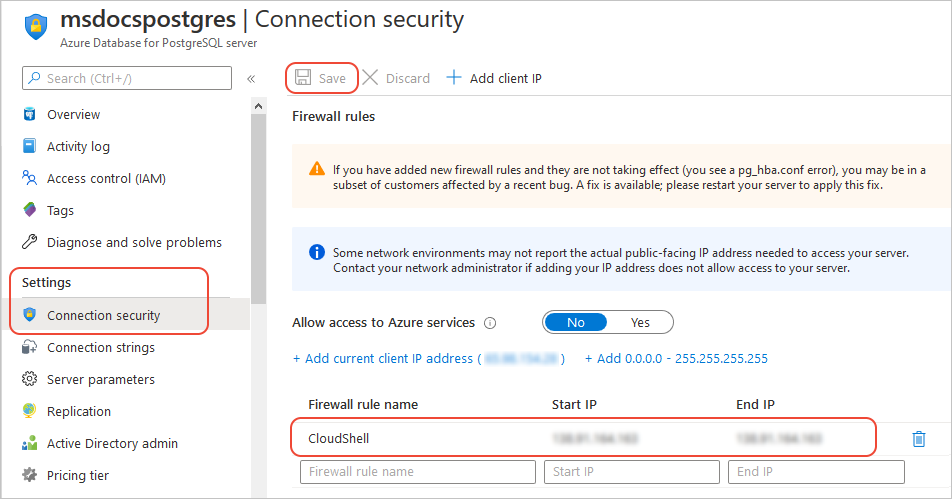
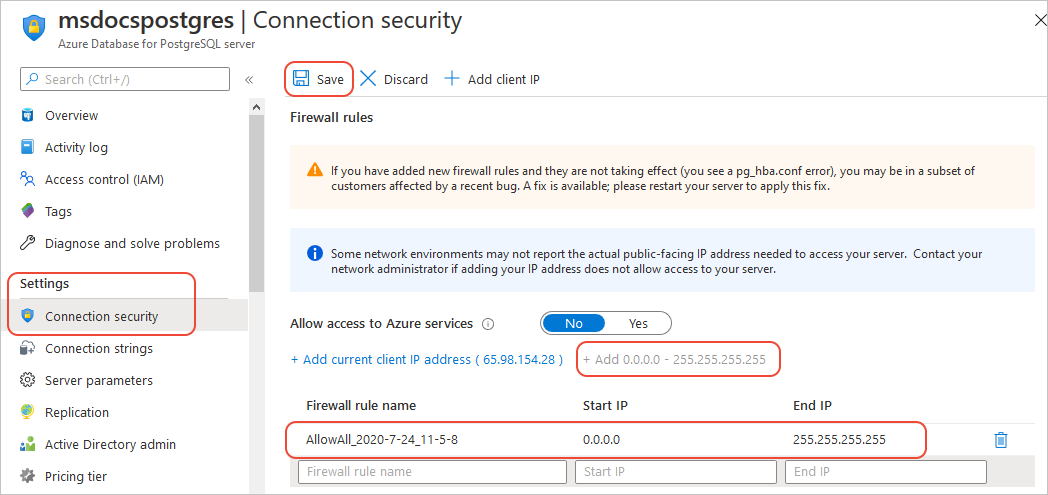
Revisions per Dan

diff --git a/articles/python/tutorial-python-postgresql-app-portal.md b/articles/python/tutorial-python-postgresql-app-portal.md
@@ -93,7 +93,13 @@ You create a fork of this repository so you can make changes and redeploy the co
 
 In this section, you connect to the database server in the Azure Cloud Shell and use a PostgreSQL command to create a "pollsdb" database on the server. This database is expected by the sample app code.
 
-1. From the overview page for the PostgreSQL server, open the Azure Cloud Shell from the Azure portal by selecting the Cloud Shell icon at the top of the window:
+1. From the overview page for the PostgreSQL server, select select **Connection security** (under **Settings** on the left side).
+
+    ![Portal connection security page for firewall rules](media/tutorial-python-postgresql-app-portal/server-firewall-rules.png)
+
+1. Select the button labeled **Add 0.0.0.0 - 255.255.255.255**, then select **Continue** in the pop up message that appears, followed by **Save** at the top of the page. These actions add a rule that allows you to connect to the database server from the Cloud Shell as well as SSH (as you do in a later section to run Django data model migrations).
+
+1. Open the Azure Cloud Shell from the Azure portal by selecting the Cloud Shell icon at the top of the window:
 
     ![Cloud Shell button on the Azure portal toolbar](media/tutorial-python-postgresql-app-portal/portal-launch-icon.png)
 
@@ -107,19 +113,9 @@ In this section, you connect to the database server in the Azure Cloud Shell and
 
     You can copy the command above and paste into the Cloud Shell by using a right-click and then selecting **Paste**.
 
-1. The psql command should fail with the message "psql: error: could not connect to server: FATAL:  no pg_hba.conf entry for host <ip-address>". This error indicates that you need to add a firewall rule for the IP address used by the Cloud Shell: <a name="add-firewall-rule"></a>
+    Enter your administrator password when prompted.
 
-    ![Portal connection security page for firewall rules](media/tutorial-python-postgresql-app-portal/server-firewall-rules.png)
-
-    1. From the Overview page for the server, select **Connection security** (under **Settings** on the left side).
-
-    1. Under **Firewall rules**, enter "CloudShell" for a rule name, then copy the IP address from the error message into both **Start IP** and **End IP** fields.
-
-    1. Select **Save** (at the top of the page) to save the firewall rule, and wait a few moments for the change to take effect.
-
-1. Run the psql command again in the Cloud Shell and enter your administrator password when prompted.
-
-1. When the shell connects successfully, you should see the prompt `postgres=>`. This prompt indicates that you're connected to the default database named "postgres".
+1. When the shell connects successfully, you should see the prompt `postgres=>`. This prompt indicates that you're connected to the default administrative database named "postgres". (The "postgres" database isn't intended for app usage.)
 
 1. At the prompt, run the command `CREATE DATABASE pollsdb;`. Be sure to include the ending semicolon, which completes the command.
 
@@ -181,7 +177,7 @@ With the code deployed and the database in place, the app is almost ready to use
 
 1. In the browser window or tab for the web app, select **SSH** (under **Development Tools** on the left side). to open an SSH console on the web app server. It may take a minute to connect for the first time as the web app container needs to start.
 
-1. In the console, run the following commands:
+1. In the console, change into the web app's folder and install packages:
 
     ```bash
     # Change into the app code folder
@@ -189,12 +185,13 @@ With the code deployed and the database in place, the app is almost ready to use
 
     # Install packages
     pip install -r requirements.txt
-
-    # Run database migrations
-    python manage.py migrate
     ```
 
-    The `migrate` command may fail with the error, "could not connect to server: FATAL:  no pg_hba.conf entry for host <ip-address>". In this case, you need to add another firewall rule to the PostgreSQL server for the SSH session's IP address shown in the error. Repeat the steps to [add a firewall rule](#add-firewall-rule) that you used earlier with the Cloud Shell.
+1. Run database migrations with the following command:
+
+    ```bash
+    python manage.py migrate
+    ```
 
 1. Run the following command to create an administrator login for the app:
 
@@ -227,7 +224,7 @@ As described earlier in this tutorial, Azure redeploys your app code whenever yo
 
 If you change the Django app's data models, however, you must migrate those changes to the database:
 
-1. Connect to the web app again via SSH as described under [Run Django database migrations](#run-django-database-migrations). 
+1. Connect to the web app again via SSH as described under [Run Django database migrations](#run-django-database-migrations).
 
 1. Change into the app folder with `cd site/wwwroot`.
 
